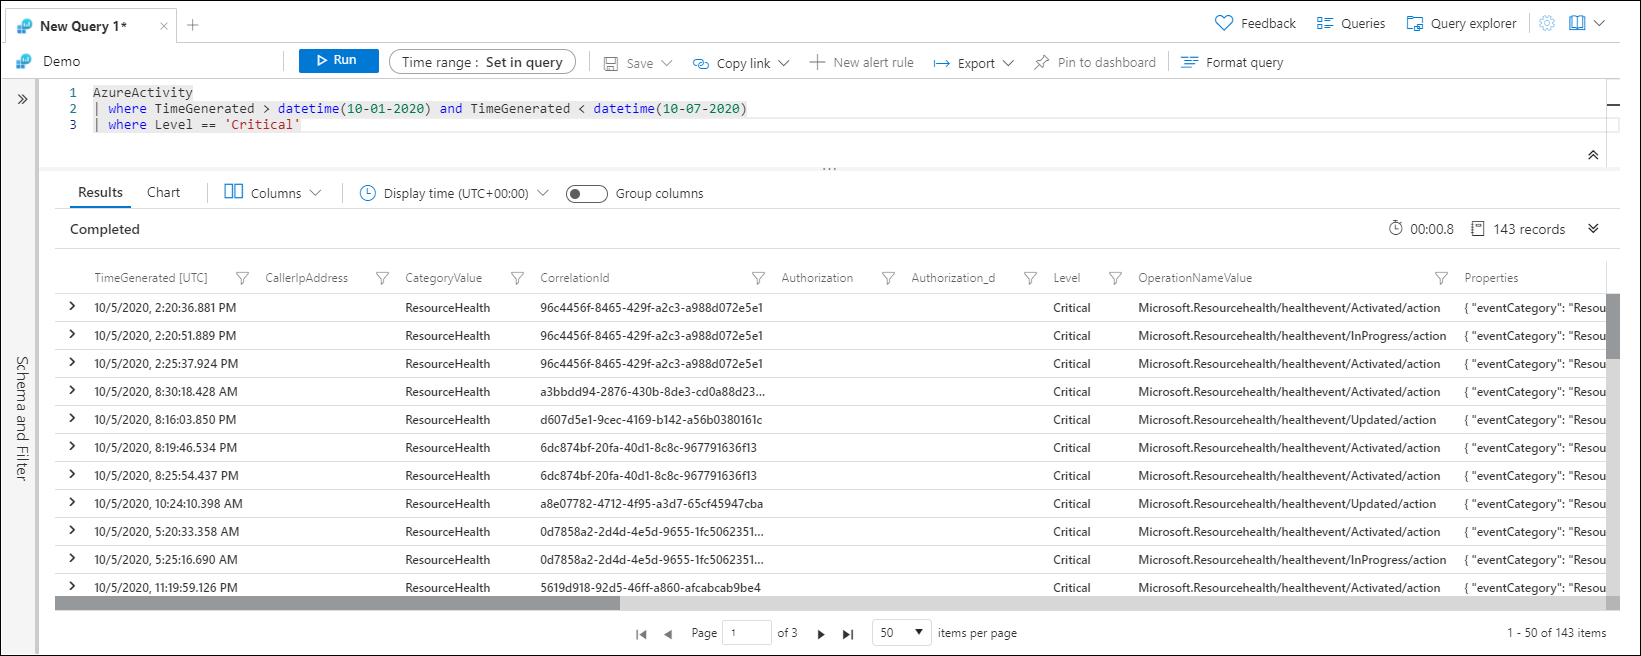
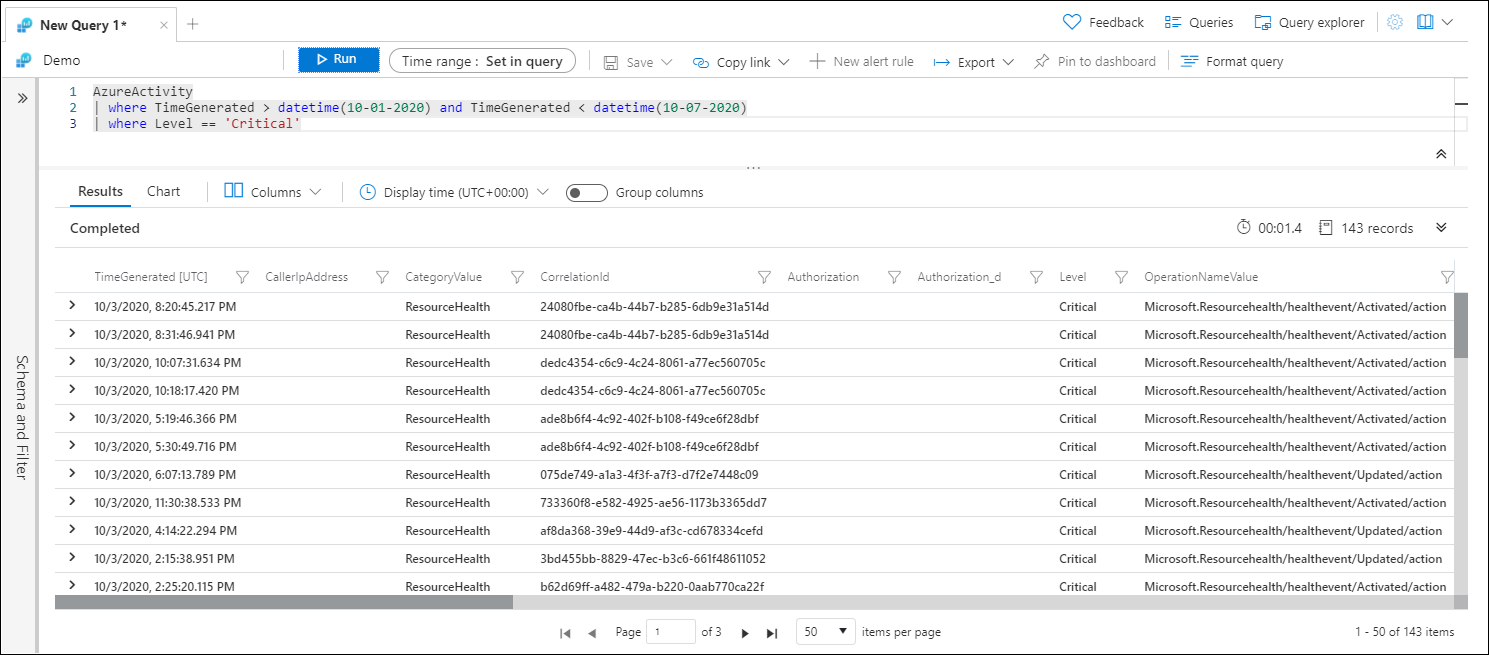
Multiple images

diff --git a/data-explorer/kusto/query/tutorial.md b/data-explorer/kusto/query/tutorial.md
@@ -597,13 +597,7 @@ NetworkMonitoring
 | project TimeGenerated, Computer, SourceNetwork, DestinationNetwork, HighLatency, LowLatency
 ```
 
-|StartTime|EndTime|EventType|State|EventNarrative|
-|---|---|---|---|---|
-|2007-12-31 22:30:00.0000000|2007-12-31 23:59:00.0000000|Winter Storm|MICHIGAN|This heavy snow event continued into the early morning hours on New Year's Day.|
-|2007-12-31 22:30:00.0000000|2007-12-31 23:59:00.0000000|Winter Storm|MICHIGAN|This heavy snow event continued into the early morning hours on New Year's Day.|
-|2007-12-31 22:30:00.0000000|2007-12-31 23:59:00.0000000|Winter Storm|MICHIGAN|This heavy snow event continued into the early morning hours on New Year's Day.|
-|2007-12-31 23:53:00.0000000|2007-12-31 23:53:00.0000000|High Wind|CALIFORNIA|North to northeast winds gusting to around 58 mph were reported in the mountains of Ventura county.|
-|2007-12-31 23:53:00.0000000|2007-12-31 23:53:00.0000000|High Wind|CALIFORNIA|The Warm Springs RAWS sensor reported northerly winds gusting to 58 mph.|
+[![Results of top example](images/tutorial/am-results-top.png)](images/tutorial/am-results-top.png#lightbox)
 
 
 ## extend: compute derived columns
@@ -618,13 +612,7 @@ Perf
 | extend FreeGigabytes = FreeMegabytes / 1000
 ```
 
-|StartTime|EndTime|Duration|EventType|State|
-|---|---|---|---|---|
-|2007-09-18 20:00:00.0000000|2007-09-19 18:00:00.0000000|22:00:00|Heavy Rain|FLORIDA|
-|2007-09-20 21:57:00.0000000|2007-09-20 22:05:00.0000000|00:08:00|Tornado|FLORIDA|
-|2007-09-29 08:11:00.0000000|2007-09-29 08:11:00.0000000|00:00:00|Waterspout|ATLANTIC SOUTH|
-|2007-12-20 07:50:00.0000000|2007-12-20 07:53:00.0000000|00:03:00|Thunderstorm Wind|MISSISSIPPI|
-|2007-12-30 16:00:00.0000000|2007-12-30 16:05:00.0000000|00:05:00|Thunderstorm Wind|GEORGIA|
+[![Results of extend example](images/tutorial/am-results-extend.png)](images/tutorial/am-results-extend.png#lightbox)
 
 
 ## summarize: aggregate groups of rows
